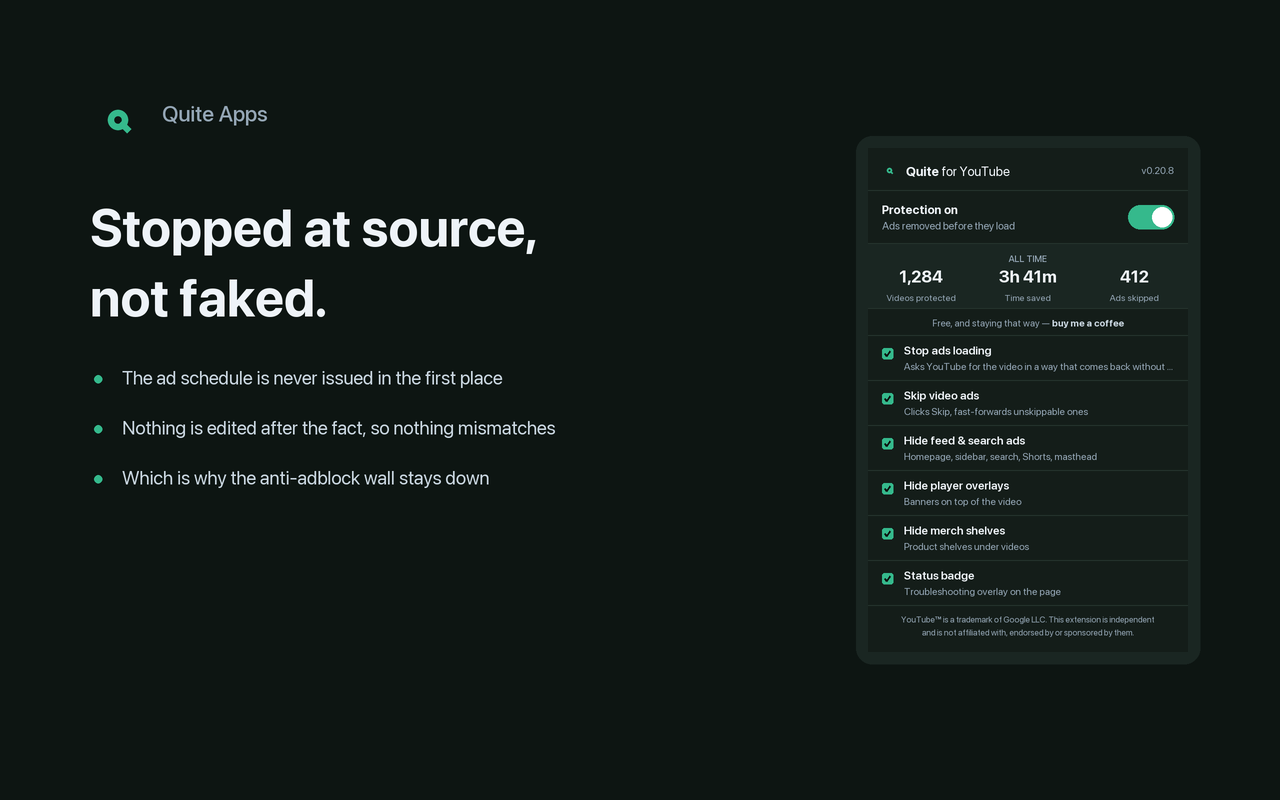
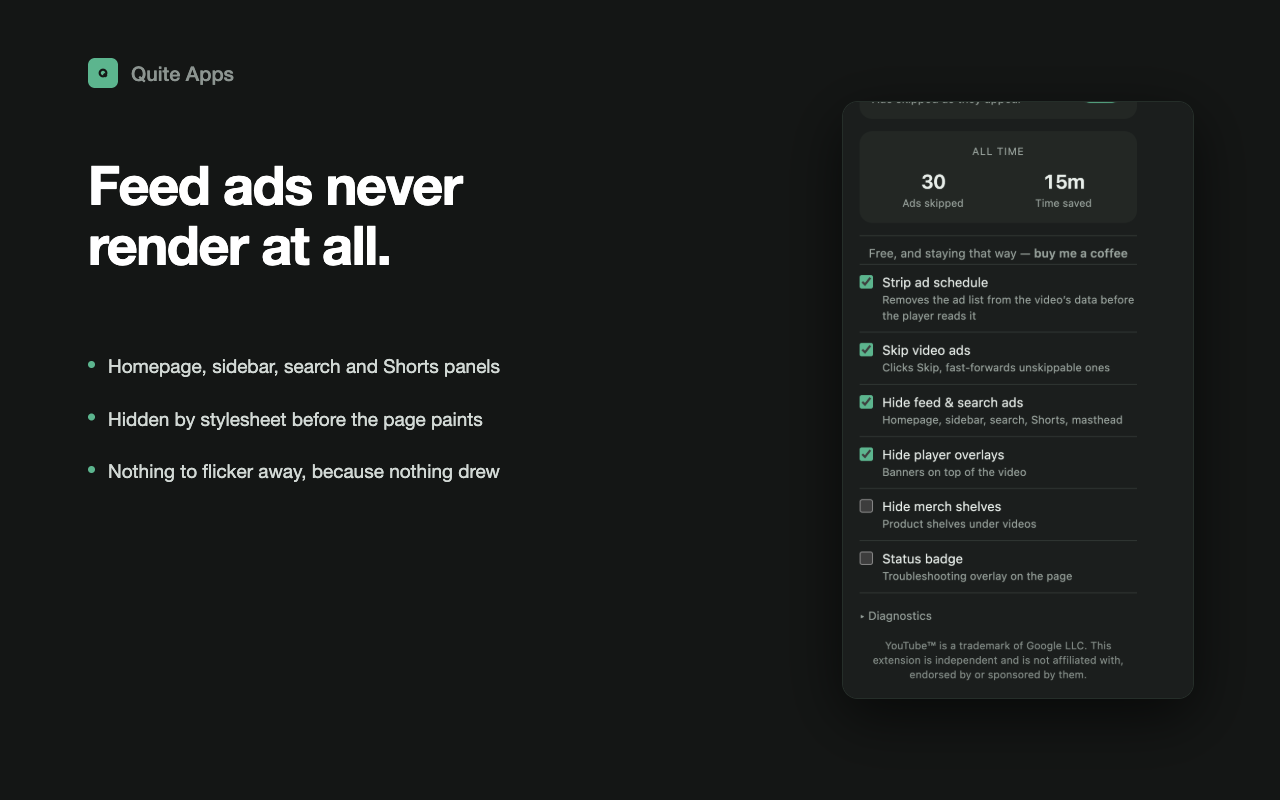
0.31.17: the counter counts adverts, and the copy says what the code does
Counter. recordAd() fired on every tick while an advert was on screen, from both
the skip branch and the seek branch, so one advert was credited many times. The
test profile read 6,354 ads skipped and 245h 48m saved from about 400 automated
loads, against a measured advert rate near 6%.

A bare once-per-advert flag was not enough: adIsPlaying() flickers while a skip
or seek lands, which re-opened crediting mid-advert. Measured over 35 loads —
9 adverts, 28 credits, against 148 with no guard. Now debounced: an advert only
counts as finished after a sustained 3s gap, so the flicker cannot re-credit
while a genuine second advert still can.

Verified over a further 35 fresh loads against an INDEPENDENT measure, because
the obvious one is unreliable — a 500ms overlay poll misses adverts the
extension kills faster than that, and it missed 17 of 30 here:

  loads whose cold response carried ad slots : 30
  counter adsSkipped                         : 30   exact
  overlay poll saw                           : 13   floor, not truth
  loads the poll flagged with no ad slots    :  0   no false positives
  credits with no guard at all               : 161

Copy. store/description.txt still opened "It stops most video ads loading" —
the claim pulled from the live listing weeks ago for being unmeasurable. It was
still in the file anyone would paste from. Corrected to the wording that
replaced it.

Screenshot 02 read "Stopped at source, not faked — the ad schedule is never
[…]

diff --git a/content.js b/content.js
@@ -789,7 +789,19 @@
   }
 
   /**
-   * Videos whose ad schedule was stopped at source, before the player saw it.
+   * Videos whose ad keys were neutralised in the player response.
+   *
+   * This used to say "stopped at source, before the player saw it", which the
+   * measurements of 2026-08-30 disproved. Neutralising the keys does NOT stop
+   * the advert: on load fLexgOxsZu0 every key this extension knows about had
+   * been neutralised and the advert played anyway, and across 200 controlled
+   * loads the rewrite made no difference to whether one appeared (1/20 escaped
+   * with it against 1/35 without, p = 0.60). What the advert costs is the SABR
+   * backoff, and that is a separate mechanism behind ?ytacsabr=.
+   *
+   * So this counts responses this extension rewrote — real work, honestly
+   * counted — and not adverts prevented. Nothing user-facing should describe it
+   * as the latter.
    *
    * inject.js runs in the page and cannot reach chrome.storage, but it already
    * publishes a monotonic count of neutralised player responses on
